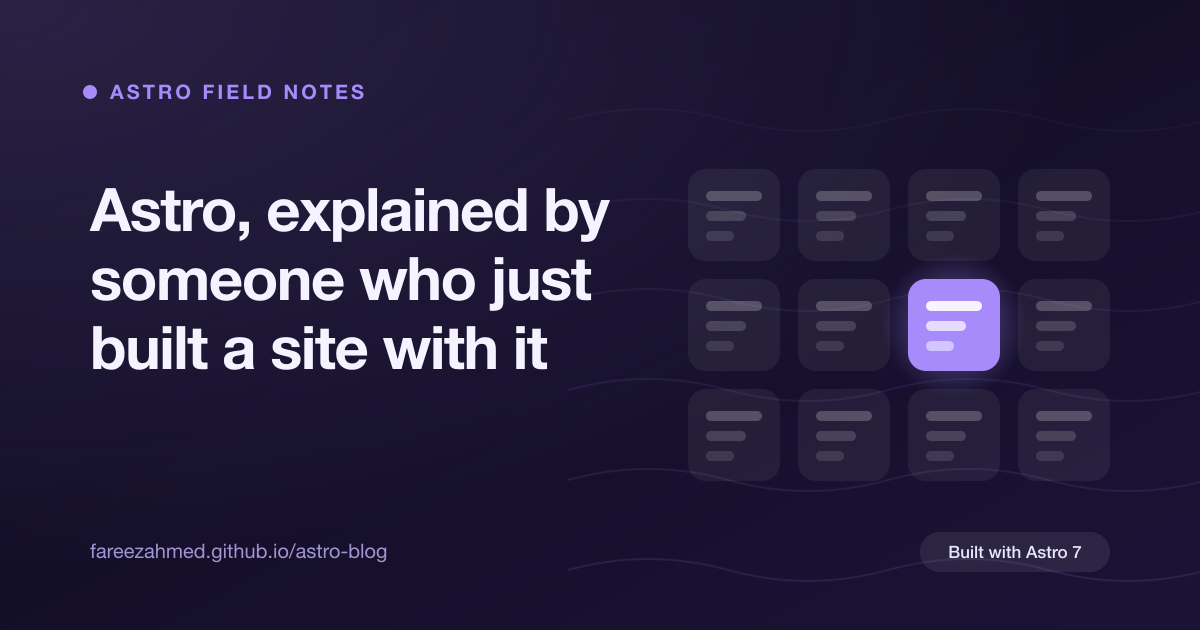
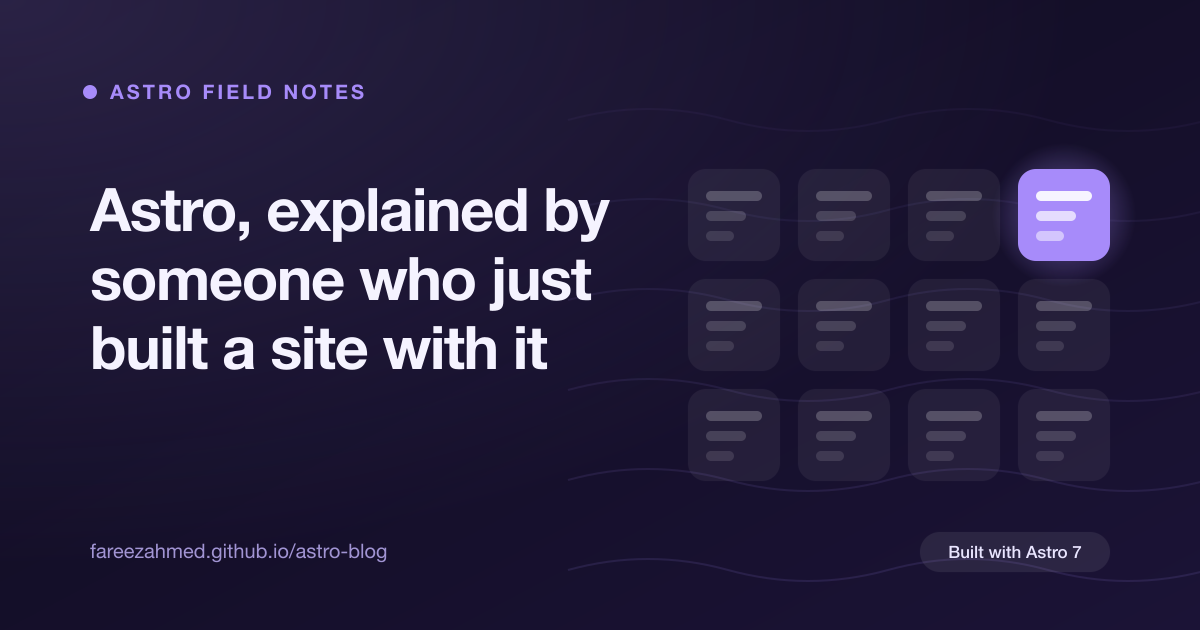
Add covers to every post
All seven posts now carry a generated 1200x630 cover, shown on the post
page and card and used for Open Graph. The generator lights a different
block per title, derived from a hash, so the cards vary.

Changed region(s): [[0.8325, 0.2413, 0.9558, 0.4524], [0.74, 0.4222, 0.8633, 0.6032]]

diff --git a/src/content/blog/content-collections.md b/src/content/blog/content-collections.md
@@ -3,6 +3,8 @@ title: "A folder of Markdown with a schema in front of it"
 description: "Content collections are the reason I trust a pile of files as a CMS. Defining one, querying it, rendering it, and why the schema is the point."
 pubDate: 2026-10-21
 tags: [astro, content, typescript, tutorial]
+cover: ./covers/content-collections.png
+coverAlt: "Cover: the post title beside a grid of page blocks with one lit island."
 ---
 
 A folder of Markdown files is the simplest CMS there is, and its weakness has always been that nothing checks the files. A post with a missing date renders fine on your laptop and breaks the build on a Friday evening, or worse, ships with "Invalid Date" in the byline. Content collections put a schema in front of the folder, and that one change is what makes me comfortable running a site this way.

diff --git a/src/content/blog/theming-for-different-domains.md b/src/content/blog/theming-for-different-domains.md
@@ -3,6 +3,8 @@ title: "Five themes from one code base, and how I wired them"
 description: "This site can look like a dev blog, a law firm, a magazine, a design studio or a wellness brand. CSS variables, Tailwind 4 tokens, and one build-time setting."
 pubDate: 2026-11-05
 tags: [astro, tailwind, design, theming]
+cover: ./covers/theming-for-different-domains.png
+coverAlt: "Cover: the post title beside a grid of page blocks with one lit island."
 ---
 
 A WordPress site gets its look from a theme, and the theme directory has thousands of them because a law firm, a food blog and a developer newsletter shouldn't look the same. I wanted the same flexibility here without the same mess, so this site has five themes, each aimed at a kind of business, and the whole mechanism is small enough to explain in a few minutes.

diff --git a/src/content/blog/astro-vs-wordpress.md b/src/content/blog/astro-vs-wordpress.md
@@ -3,6 +3,8 @@ title: "Can Astro replace WordPress? Depends who's typing."
 description: "The question I get asked most. The answer comes down to who writes the content, and there are three sensible ways to go depending on that."
 pubDate: 2026-11-04
 tags: [astro, wordpress, headless, decision]
+cover: ./covers/astro-vs-wordpress.png
+coverAlt: "Cover: the post title beside a grid of page blocks with one lit island."
 ---
 
 WordPress runs something like two in five websites. Astro is a build tool that turns files into HTML. Asking whether one replaces the other is a bit like asking whether a bicycle replaces a city. And yet it's the question I get asked most, because the two overlap exactly where most WordPress sites live: a blog, a marketing site, some docs, a small catalogue.

diff --git a/src/content/blog/islands-in-practice.md b/src/content/blog/islands-in-practice.md
@@ -3,6 +3,8 @@ title: "One island, and what it taught me about the rest of the page"
 description: "The blog index on this site has a React search box and nothing else that runs in the browser. Here's how that works and what to watch for."
 pubDate: 2026-10-28
 tags: [astro, islands, react, performance]
+cover: ./covers/islands-in-practice.png
+coverAlt: "Cover: the post title beside a grid of page blocks with one lit island."
 ---
 
 The blog index on this site has a search box. It filters posts as you type, so it needs JavaScript. Nothing else on that page does. Islands architecture is the pattern that lets the search box have its JavaScript without the header, the footer and the post cards paying for it, and until I built one I didn't fully believe it was that simple.

diff --git a/src/content/blog/deploying-astro.md b/src/content/blog/deploying-astro.md
@@ -3,6 +3,8 @@ title: "Deploying the same Astro site to four hosts"
 description: "One static build, GitHub Pages, Netlify, Vercel and Cloudflare. The sub-path trap on Pages, what each host wants, and when you'd need an adapter."
 pubDate: 2026-10-14
 tags: [astro, deployment, github-actions, hosting]
+cover: ./covers/deploying-astro.png
+coverAlt: "Cover: the post title beside a grid of page blocks with one lit island."
 ---
 
 `astro build` writes a folder called `dist/`. For a static site that folder is the deliverable, full stop, and every host in this post serves it the same way. The differences are in how the build gets run and what URL the site ends up at. I set this project up for all four so I'd stop re-learning the differences.

diff --git a/src/content/blog/using-astro-field-notes.md b/src/content/blog/using-astro-field-notes.md
@@ -3,6 +3,8 @@ title: "So you want to leave WordPress. Here's what this project is for."
 description: "A plain-spoken guide to Astro Field Notes: what's in it, who should bother, and three ways to use it instead of (or alongside) WordPress."
 pubDate: 2026-11-06
 tags: [astro, wordpress, guide, migration, headless]
+cover: ./covers/using-astro-field-notes.png
+coverAlt: "Cover: the post title beside a grid of page blocks with one lit island."
 featured: true
 ---
 
